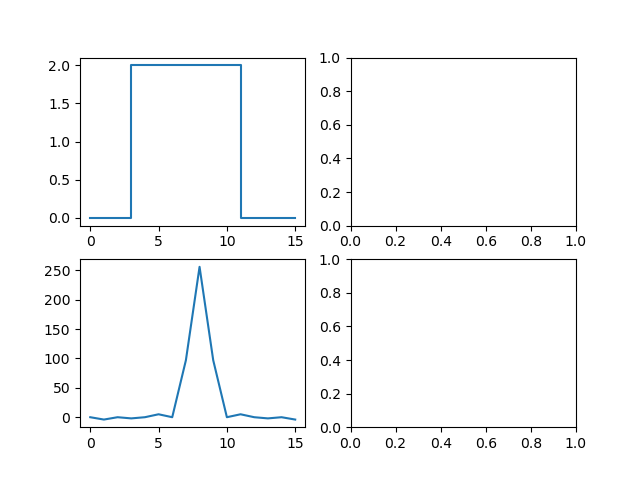
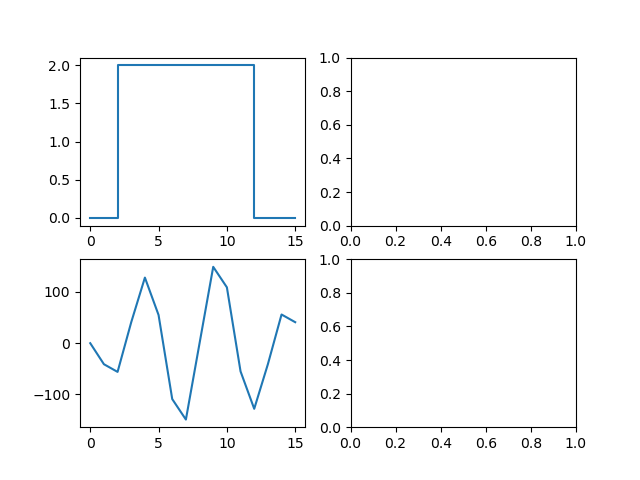
update .py files

diff --git a/pybruteforce/stepfn.py b/pybruteforce/stepfn.py
@@ -1,23 +1,22 @@
 import numpy as np, matplotlib.pyplot as plt
-'''
-Test Fn: Step Function
-'''
+#test fn: step fn; create fn using np arrays
 n=16
 x = np.arange(0,n,1)
 y =np.zeros(n)
-for i in np.arange(4,12,1):
+for i in np.arange(3,13,1):
     y[i] = 2
-#plot stepfn onto graph
-figs,axs = plt.subplots(2,2)
-axs[0,0].step(x,y)
-#calculate convolution of step fn (F is fourier)
-x_fft = np.fft.fft(x)#--->F(x)
-y_fft = np.fft.fft(y)#--->F(y)
-yyfft = y_fft * y_fft #---> F(x * y) = F(x) * F(y)
-Fyy = np.fft.ifftshift(np.round(np.real(yyfft)))
-print(Fyy)
-axs[1,1].plot(yyfft)
-axs[1,0].plot(Fyy)
+#calculate convolution of step fn (F is fourier) 
+t_fftfreq = np.fft.fftfreq(n,d = 1x.size)
+x_fft = np.fft.fft(x)
+t_fft = x_fft * t_fftfreq#--->g(t)
+y_fft = np.fft.fft(y)#--->f(x)
+ytfft = y_fft * t_fft #---> F(f*g) = Ff * Fg ---->convolution 
+Fyt = np.fft.ifftshift(np.round(np.real(ytfft)))#--->ifftshift [inverse fftshift]: shifts zero freq component 2 centre of spectrum
+#add guassian noise
+
+#plot graphs (stepfn, convoluted stepfn, convoluted stepfn with gaussain)
+figs,axs = plt.subplots(1,2)
+axs[1].step(x,y)
+axs[0,1].plot(Fyt)
 plt.savefig('stepfntest.png')
 plt.show()
-#add guassian noise
